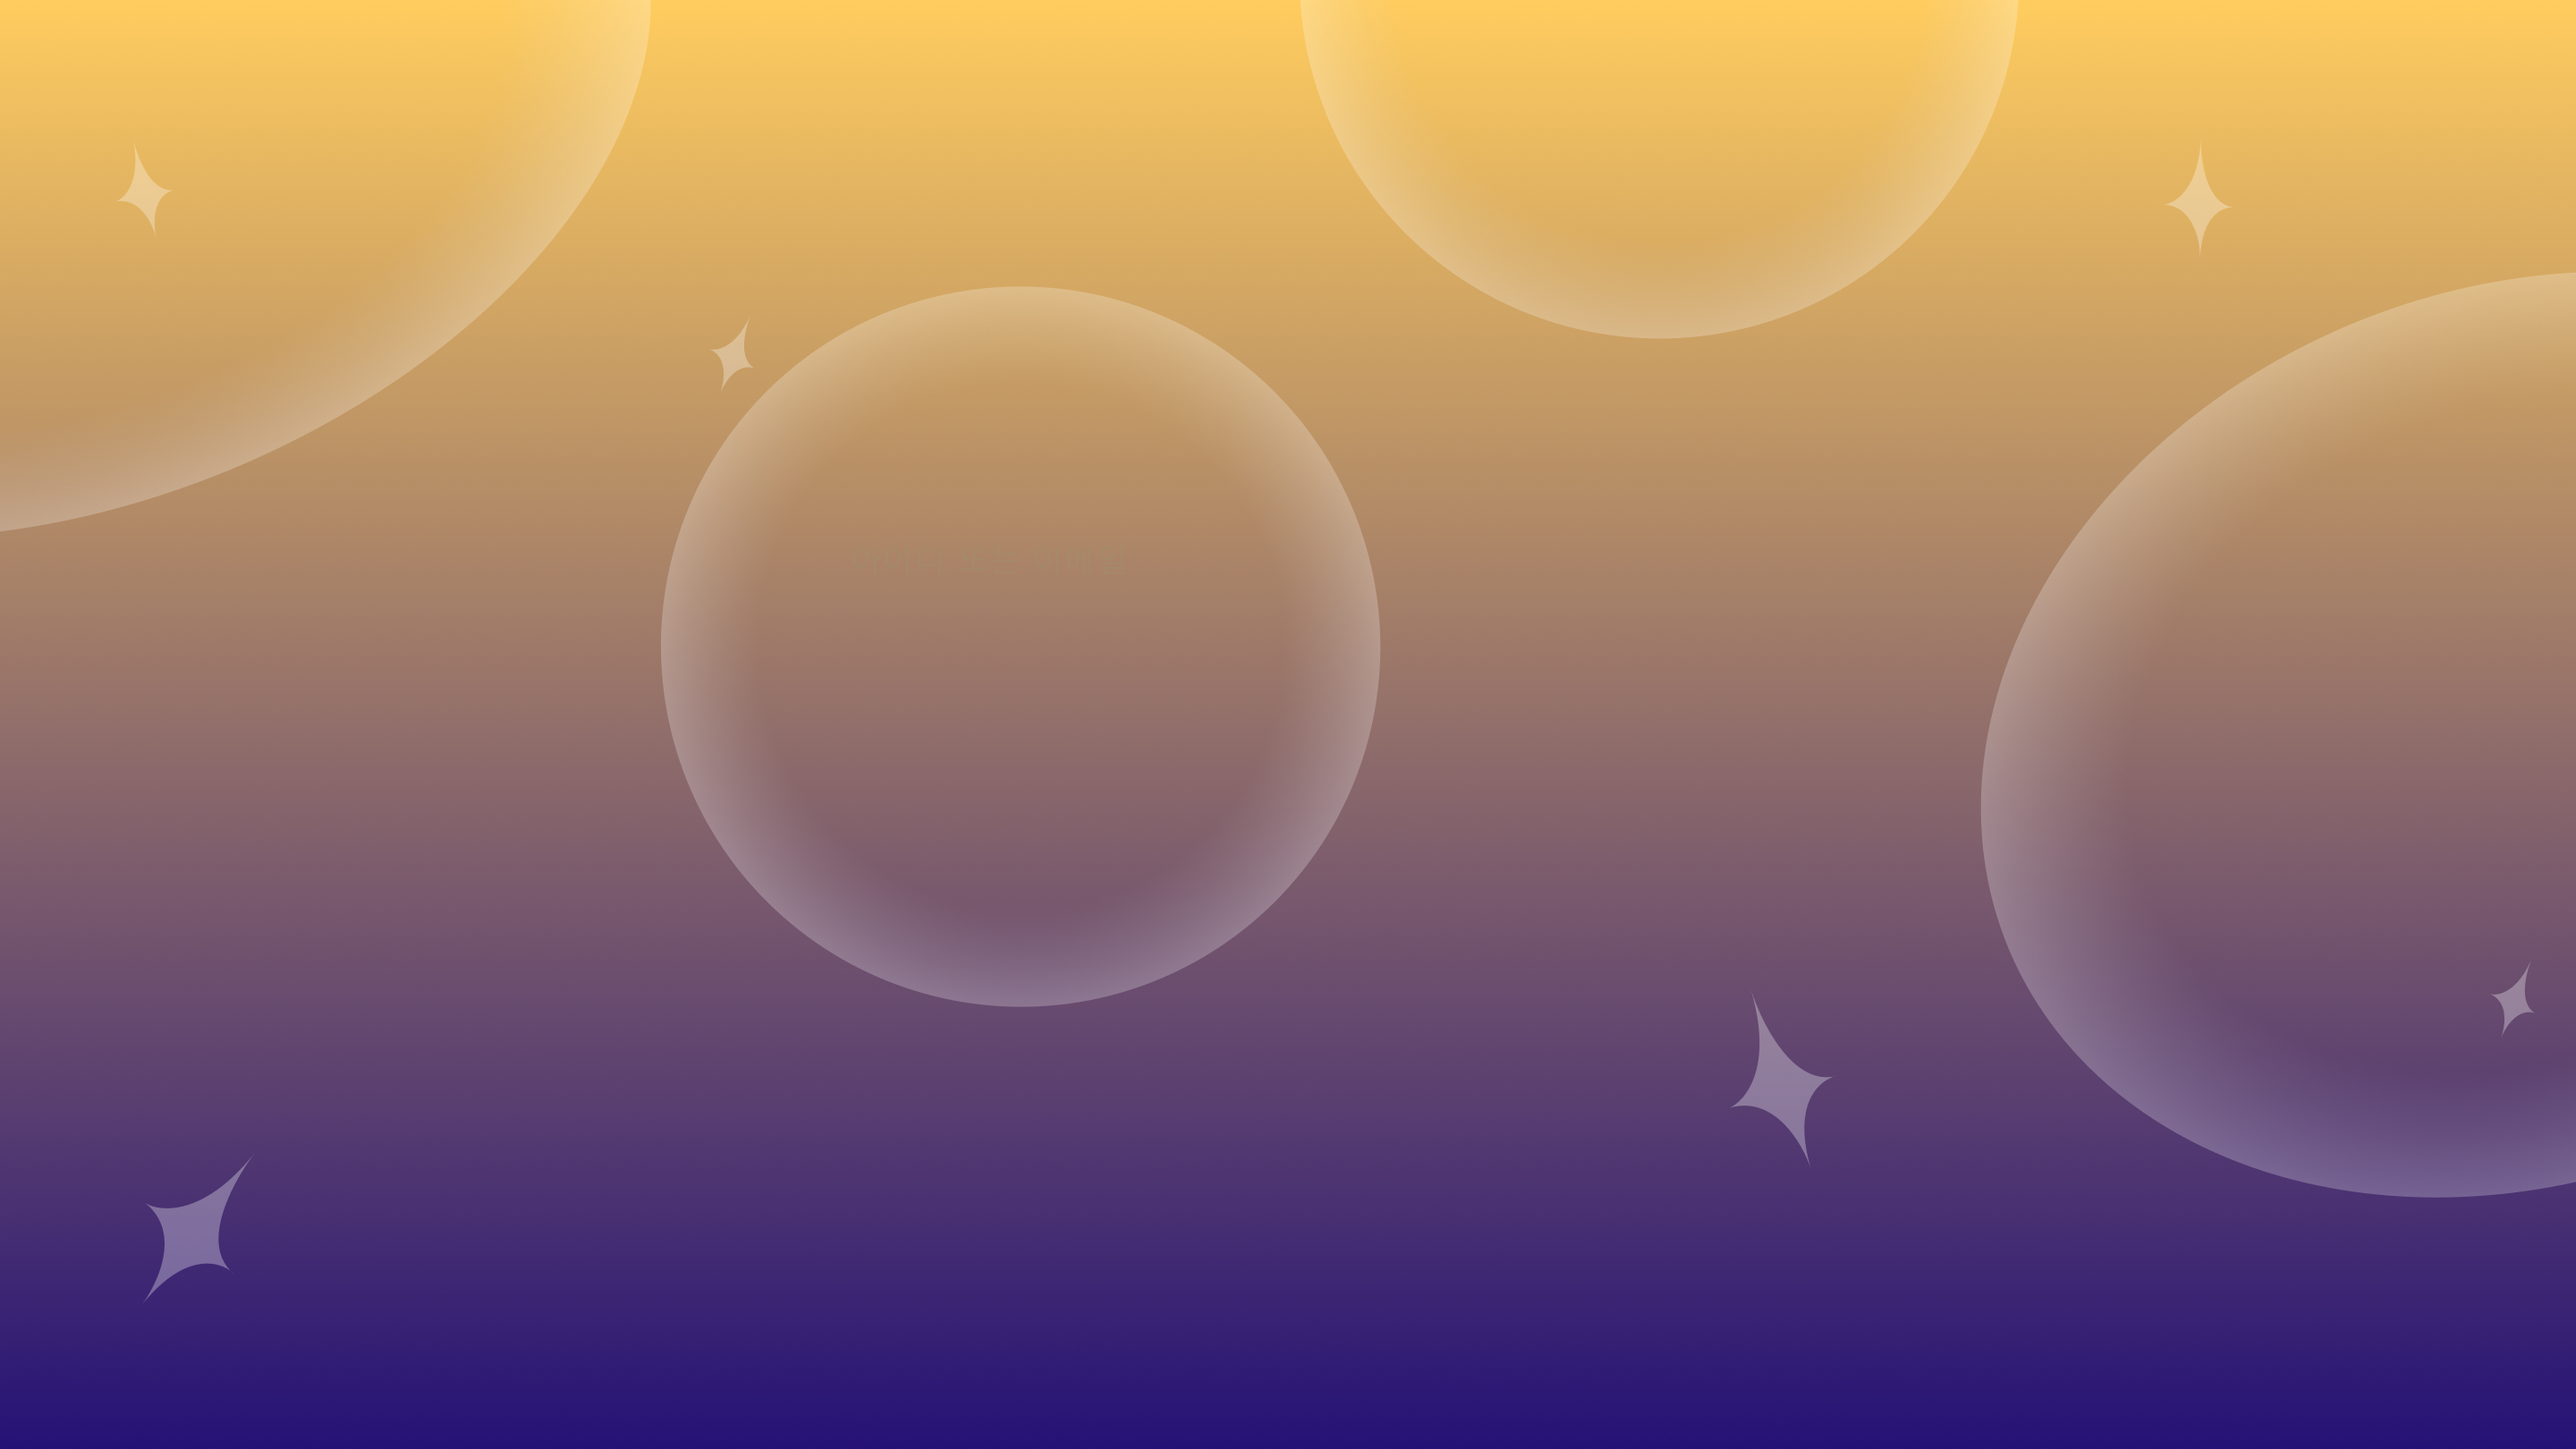
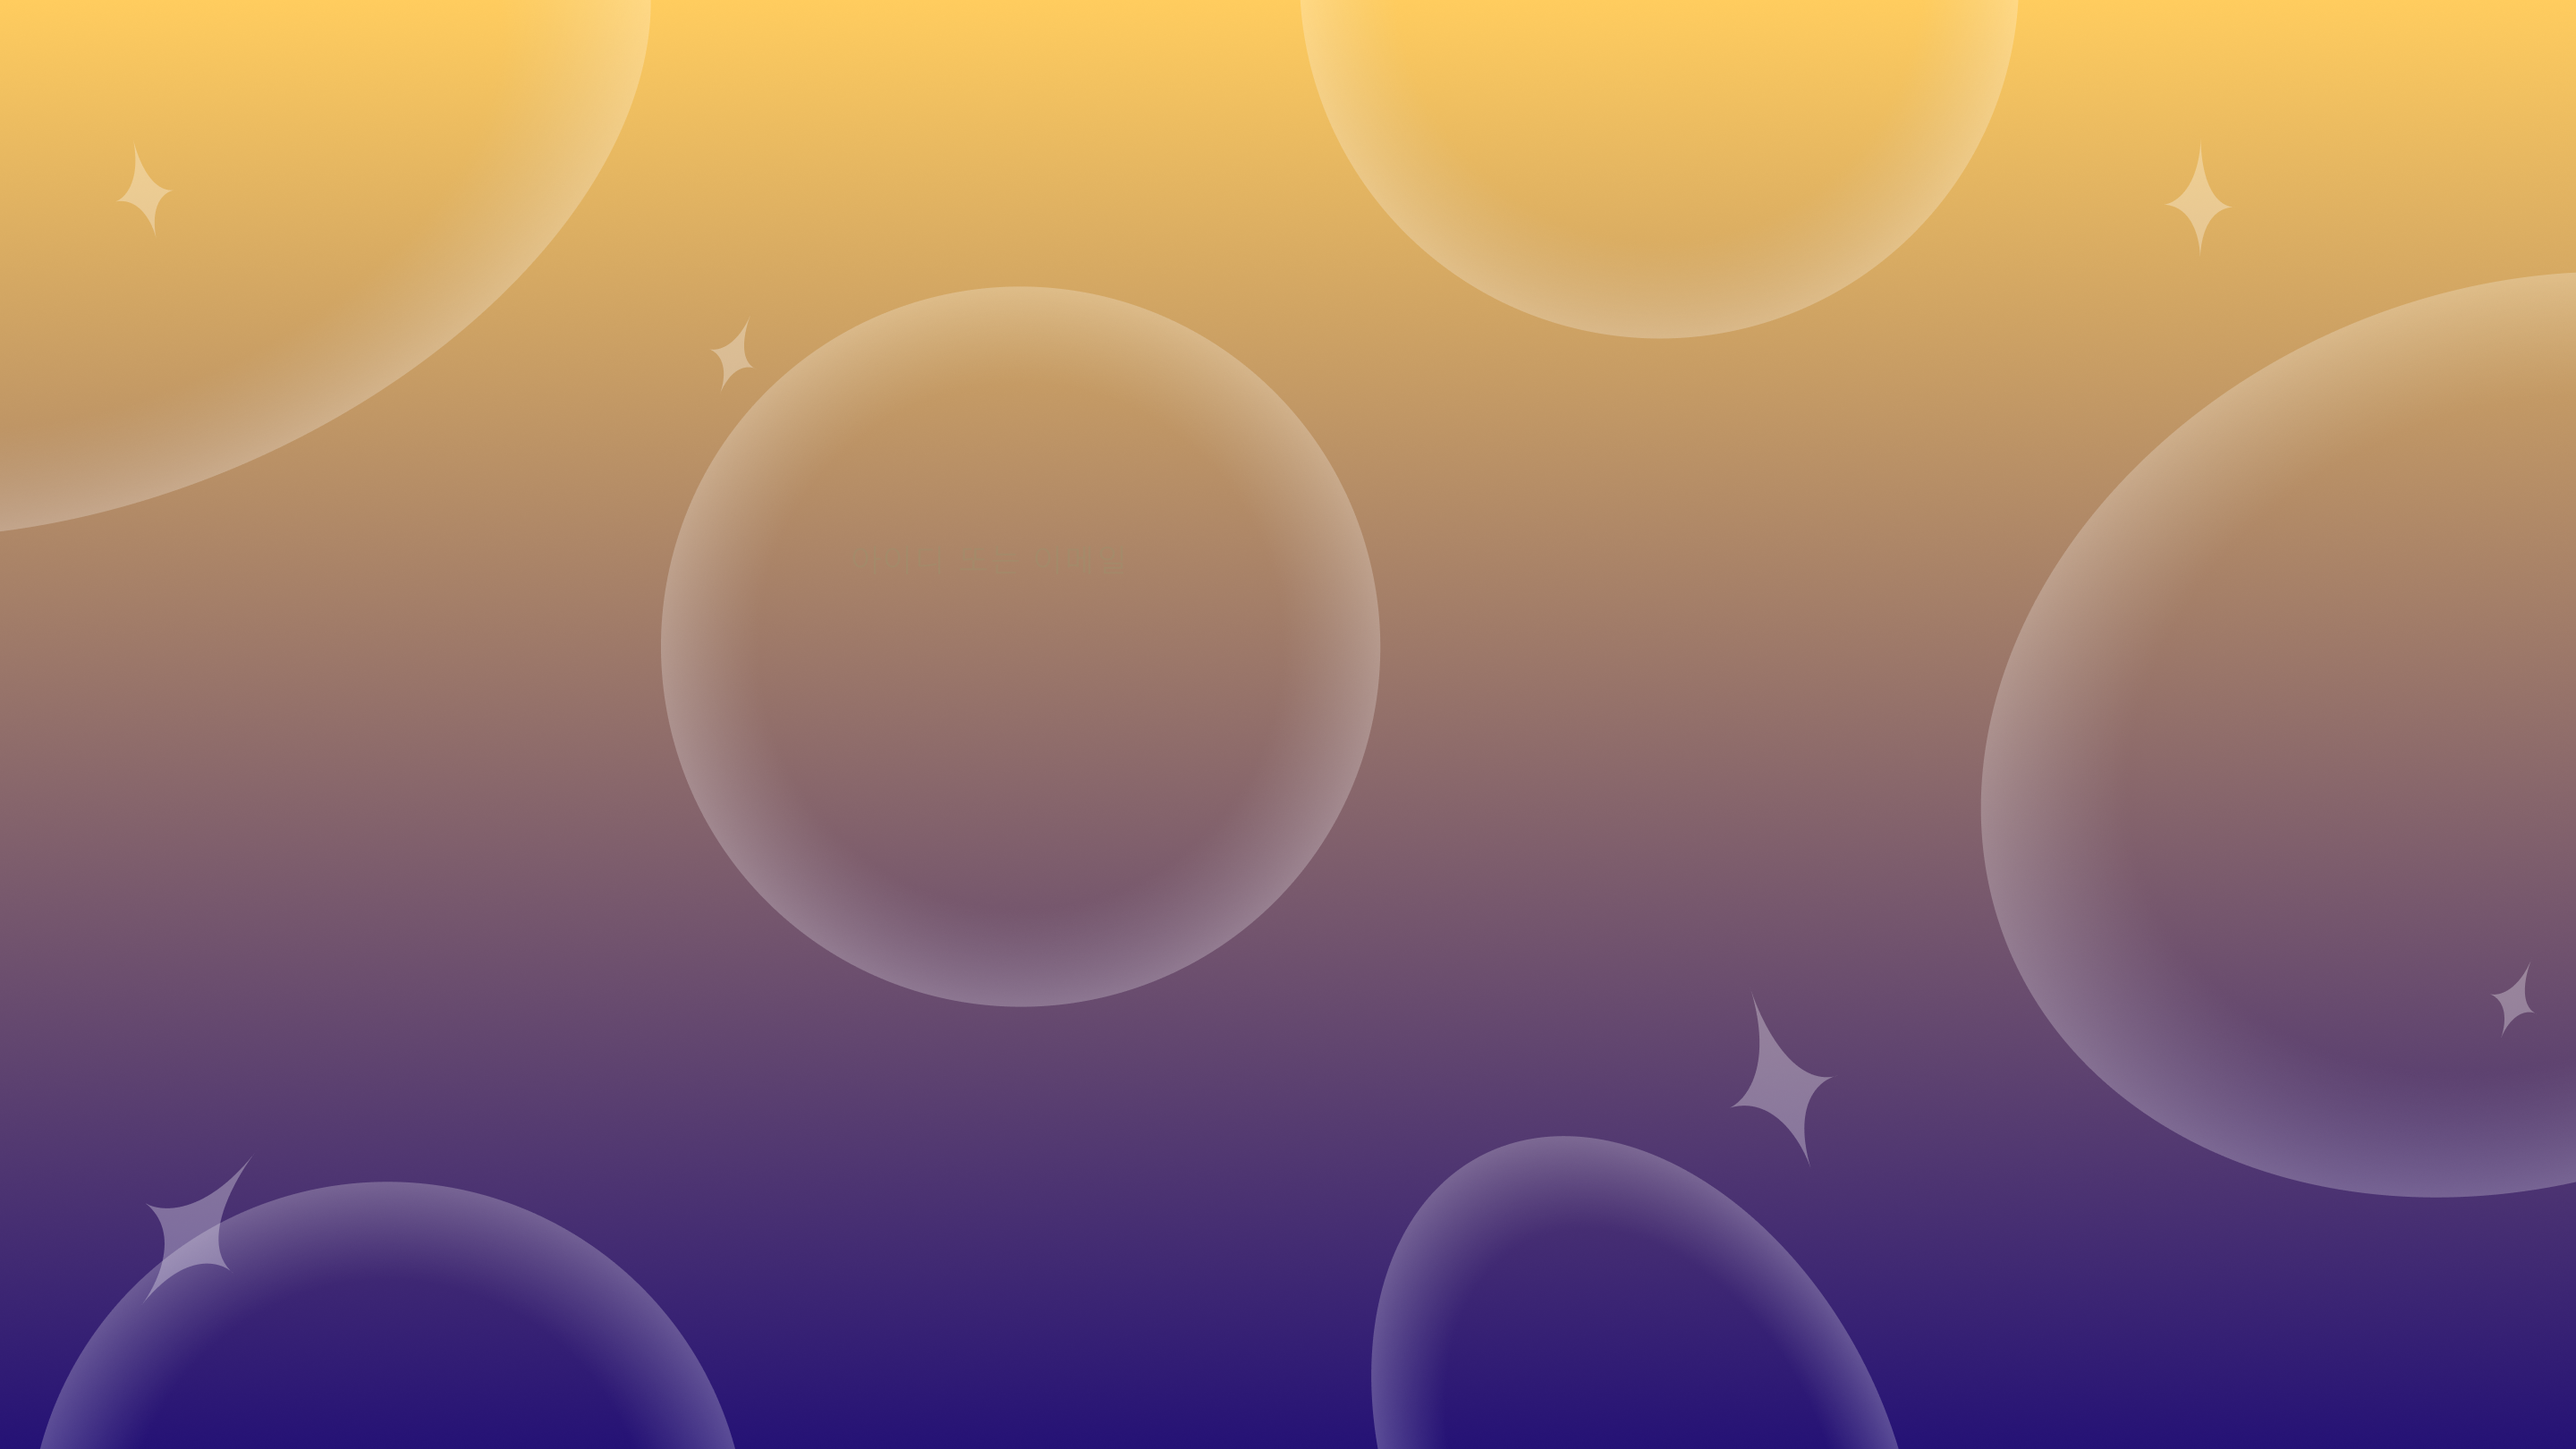
📄 :: login & join 페이지 생성

Changed region(s): [[0.0, 0.8025, 0.3125, 1.0], [0.5312, 0.7716, 0.75, 1.0]]

diff --git a/src/App.jsx b/src/App.jsx
@@ -2,6 +2,8 @@ import { Routes, Route } from "react-router-dom";
 import Home from "./pages/home.jsx";
 import Inspection from "./pages/inspection.jsx";
 import Result from "./pages/result.jsx";
+import Login from "./pages/login.jsx";
+import Join from "./pages/join.jsx";
 
 function App() {
   return (
@@ -9,6 +11,8 @@ function App() {
       <Route path="/" element={<Home />} />
       <Route path="/inspection" element={<Inspection />} />
       <Route path="/result" element={<Result />} />
+      <Route path="/login" element={<Login />} />
+      <Route path="/join" element={<Join />} />
     </Routes>
   );
 }

diff --git a/src/styles/login.css b/src/styles/login.css
@@ -1,0 +1,26 @@
+.login_page {
+    width: 100vw;
+    height: 100vh;
+
+    position: relative;
+
+    display: flex;
+    flex-direction: column;
+
+    background-image: url('../assets/bgdefault.png');
+    background-size: 100%;
+    overflow-y: hidden;
+}
+
+
+/* 중앙 */
+.login_body {
+    width: 100%;
+    height: 84vh;
+
+    display: flex;
+    flex-direction: column;
+    justify-content: center;
+    align-items: center;
+    gap: 3vh;
+}

diff --git a/src/styles/join.css b/src/styles/join.css
@@ -1,0 +1,26 @@
+.join_page {
+    width: 100vw;
+    height: 100vh;
+
+    position: relative;
+
+    display: flex;
+    flex-direction: column;
+
+    background-image: url('../assets/bgdefault.png');
+    background-size: 100%;
+    overflow-y: hidden;
+}
+
+
+/* 중앙 */
+.join_body {
+    width: 100%;
+    height: 84vh;
+
+    display: flex;
+    flex-direction: column;
+    justify-content: center;
+    align-items: center;
+    gap: 3vh;
+}

diff --git a/src/pages/login.jsx b/src/pages/login.jsx
@@ -1,0 +1,21 @@
+import "../styles/login.css"
+import "../styles/headerWhole.css"
+
+import Footer from "../components/footer.jsx";
+
+function Login() {
+  return (
+    <div className="login_page">
+      <div className="header">
+        <div className="back_btn">시작 화면으로 돌아가기</div>
+
+      </div>
+      <div className="login_body">
+       
+      </div>
+      <Footer />
+    </div>
+  );
+}
+
+export default Login;

diff --git a/src/pages/join.jsx b/src/pages/join.jsx
@@ -1,0 +1,21 @@
+import "../styles/join.css"
+import "../styles/headerWhole.css"
+
+import Footer from "../components/footer.jsx";
+
+function Join() {
+  return (
+    <div className="join_page">
+      <div className="header">
+        <div className="back_btn">시작 화면으로 돌아가기</div>
+
+      </div>
+      <div className="join_body">
+       
+      </div>
+      <Footer />
+    </div>
+  );
+}
+
+export default Join;
